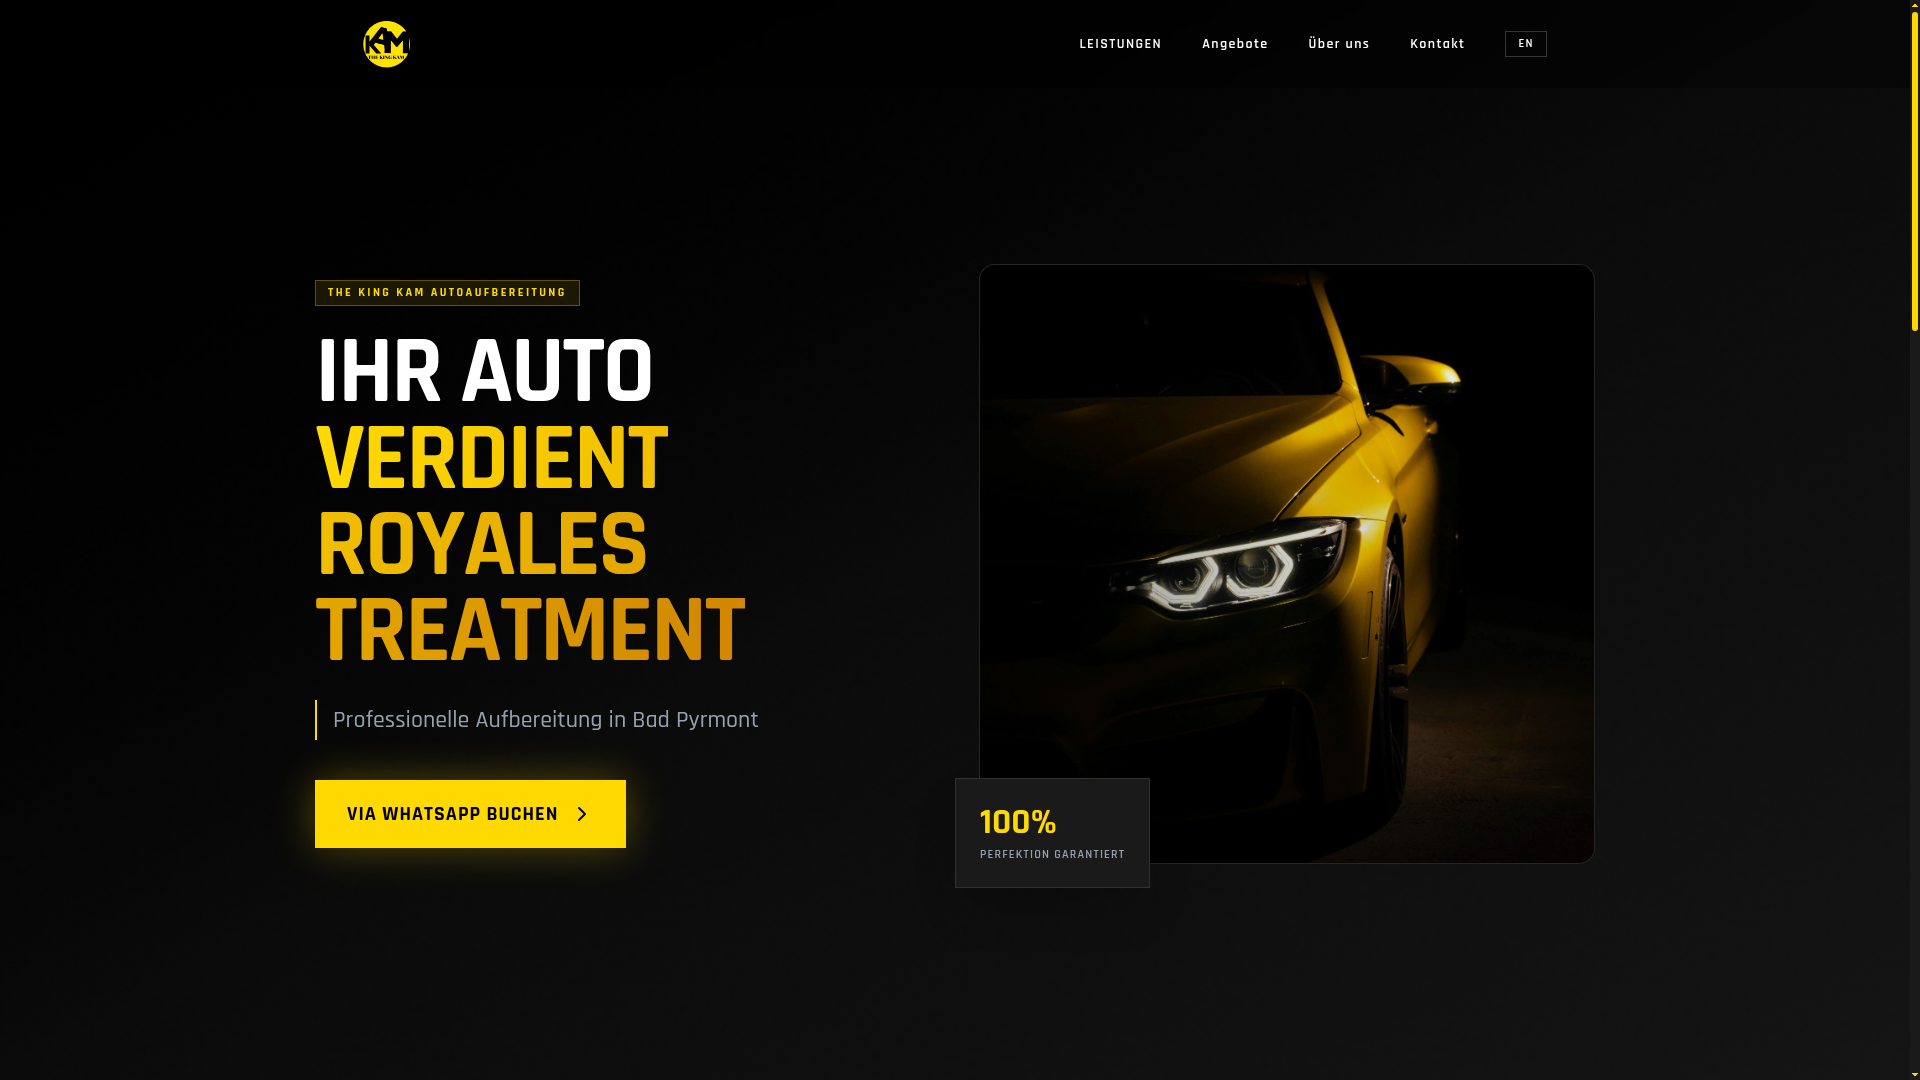
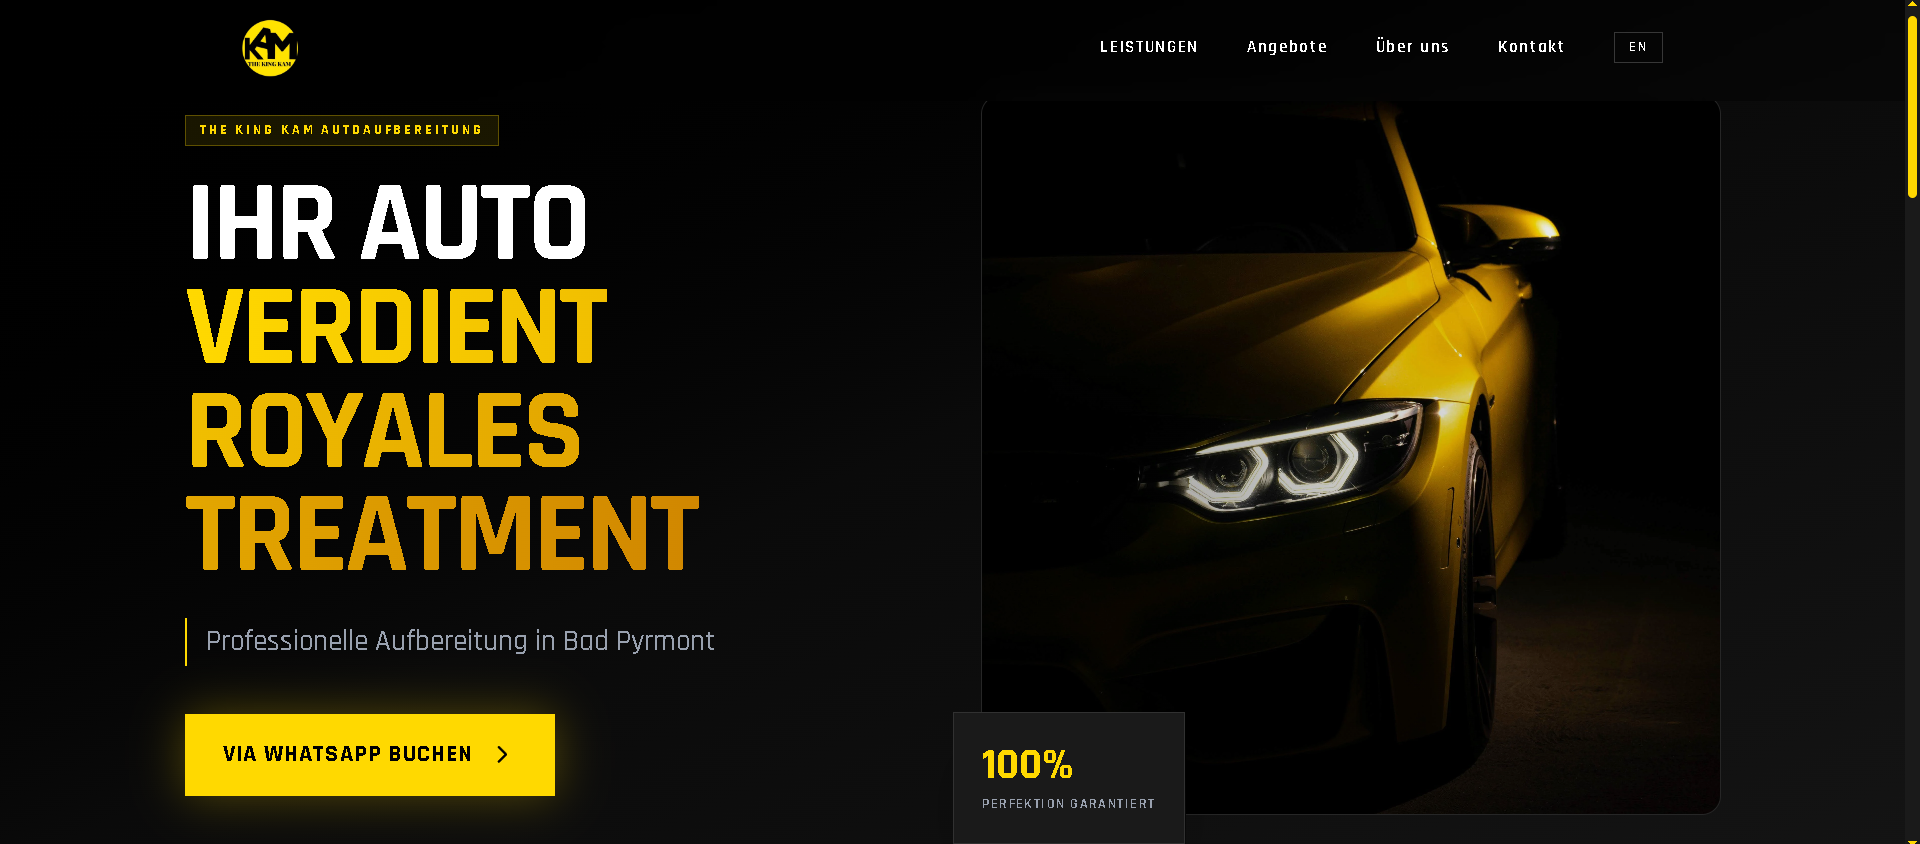
Update project images and adjust card display for better visual fit
Swap images for "The King Kam" and "Ahmad Saghir" projects and update CSS to ensure images are centered within their respective cards using `object-center`.

Replit-Commit-Author: Agent
Replit-Commit-Session-Id: 9c52d06e-16bd-4ae4-87be-f014f9b00f25
Replit-Commit-Checkpoint-Type: full_checkpoint
Replit-Commit-Event-Id: e0104439-9d01-4dd8-b1d3-c5eec120c46c
Replit-Commit-Screenshot-Url: https://storage.googleapis.com/screenshot-production-us-central1/710a1714-8f3b-4189-a783-2d92c30951e5/9c52d06e-16bd-4ae4-87be-f014f9b00f25/JVDZpJ5
Replit-Helium-Checkpoint-Created: true

diff --git a/artifacts/studio-site/src/pages/Home.tsx b/artifacts/studio-site/src/pages/Home.tsx
@@ -724,7 +724,7 @@ export default function Home() {
                   desc: 'High-impact car detailing website with bold visual identity, WhatsApp booking integration, and a strong German-market presence.',
                   category: 'Website',
                   url: 'https://www.thekingkam.de/',
-                  image: '/work-kingkam.png',
+                  image: '/work-ahmad.png',
                   height: 'h-56',
                   tag: 'Auto Detailing · Bad Pyrmont'
                 },
@@ -742,7 +742,7 @@ export default function Home() {
                   desc: 'Sleek developer portfolio showcasing skills, projects, and client reviews — built for maximum credibility and conversion.',
                   category: 'Portfolio',
                   url: 'https://ahmadsaghir.de/',
-                  image: '/work-ahmad.png',
+                  image: '/work-kingkam.png',
                   height: 'h-56',
                   tag: 'Portfolio · Web Developer'
                 },
@@ -762,7 +762,7 @@ export default function Home() {
                         <img
                           src={project.image}
                           alt={project.title}
-                          className="absolute inset-0 w-full h-full object-cover object-top group-hover:scale-[1.04] transition-transform duration-700"
+                          className="absolute inset-0 w-full h-full object-cover object-center group-hover:scale-[1.04] transition-transform duration-700"
                         />
                         <div className="absolute inset-0 bg-gradient-to-t from-[#0D1B2A]/60 via-transparent to-transparent opacity-0 group-hover:opacity-100 transition-opacity duration-500" />
                         <div className="absolute top-3 right-3 opacity-0 group-hover:opacity-100 transition-opacity duration-300">